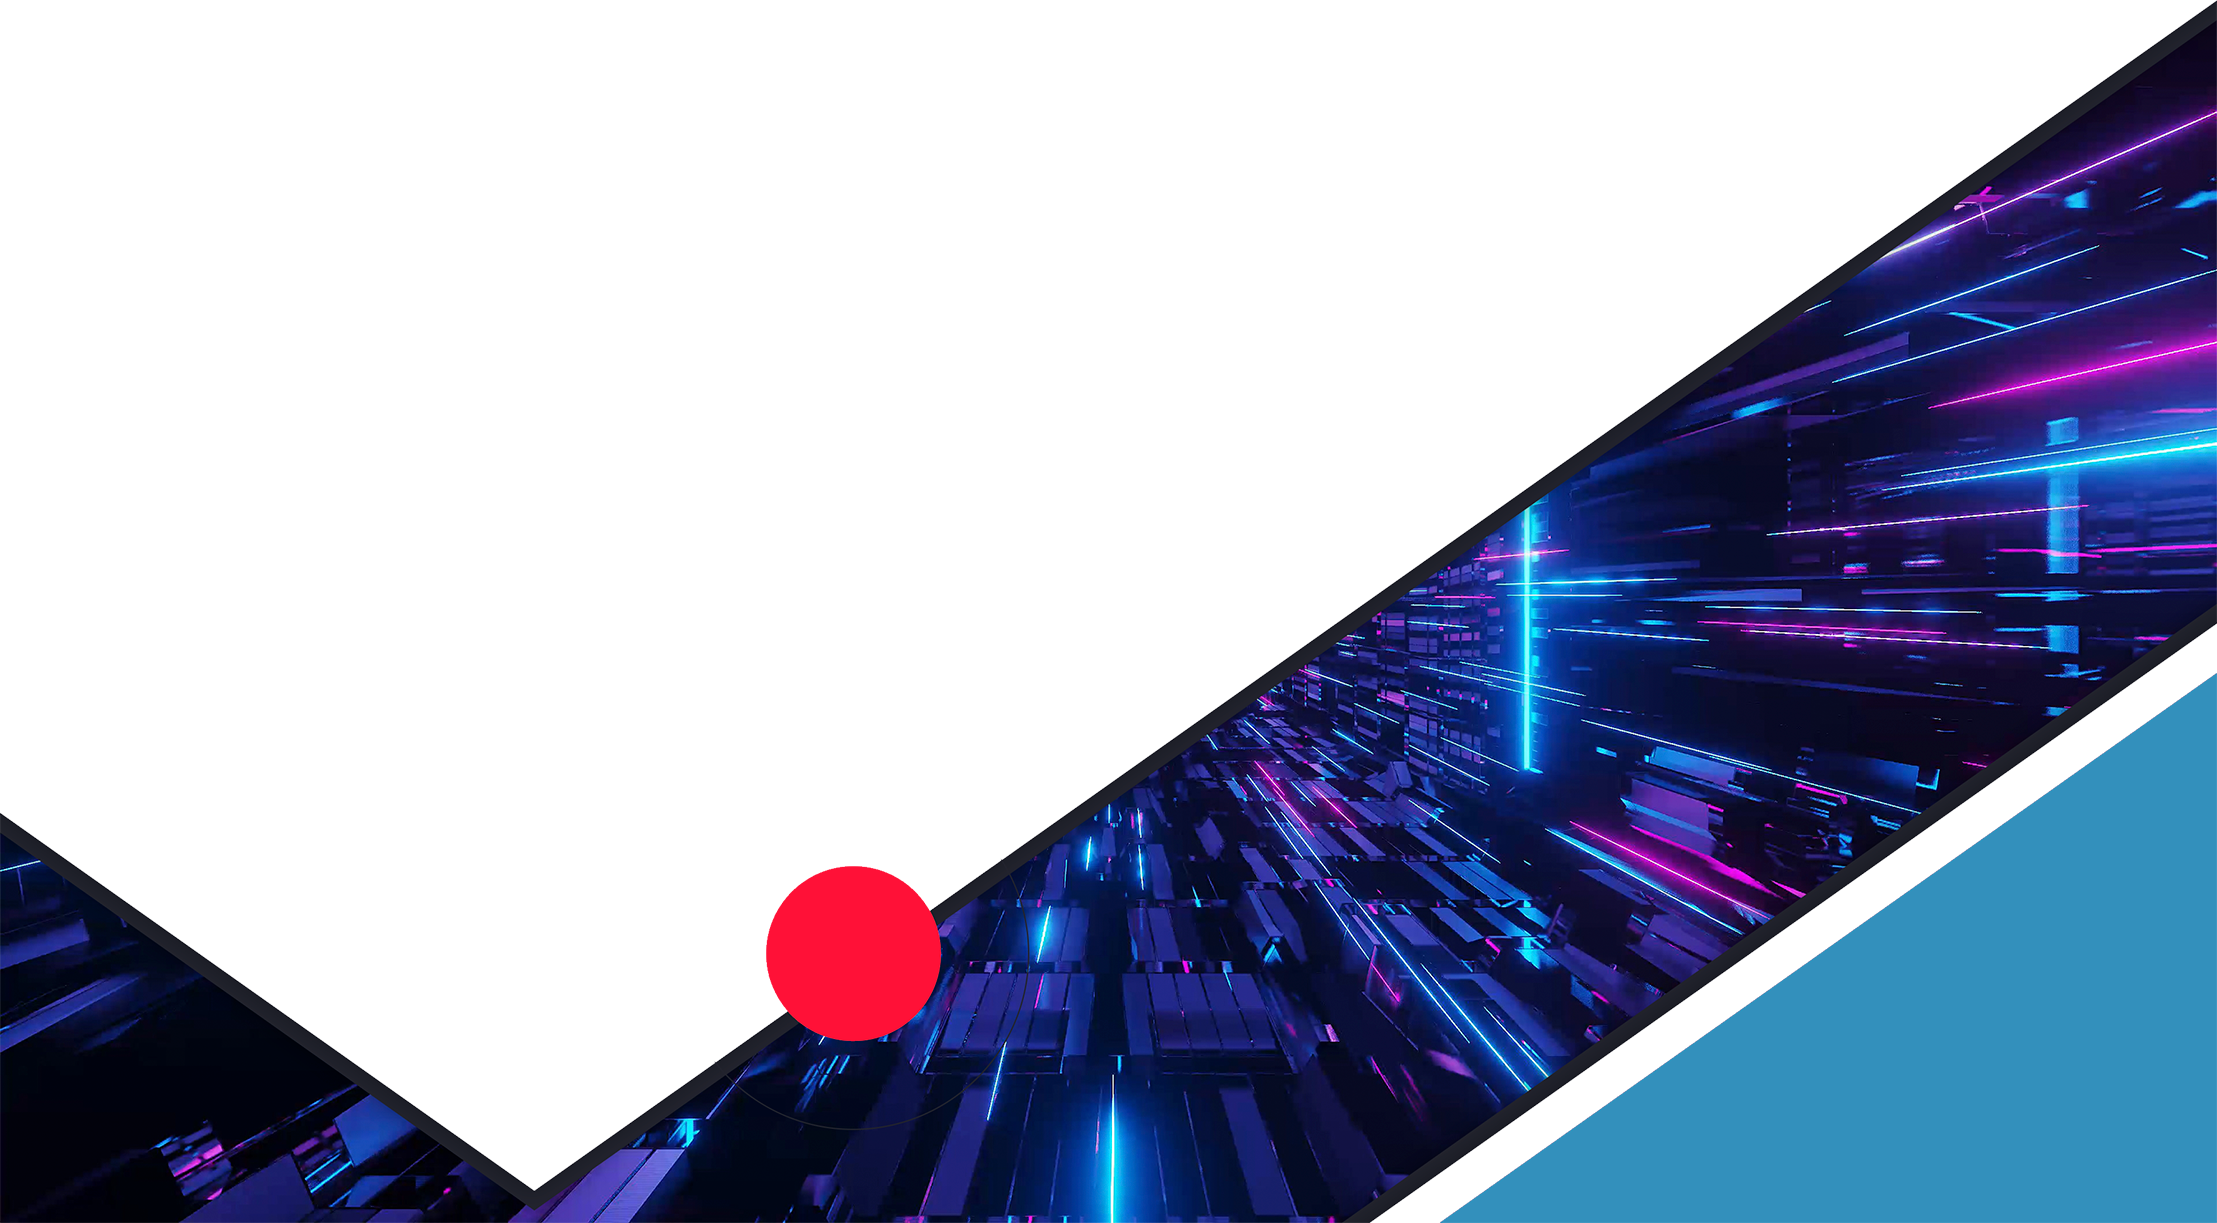
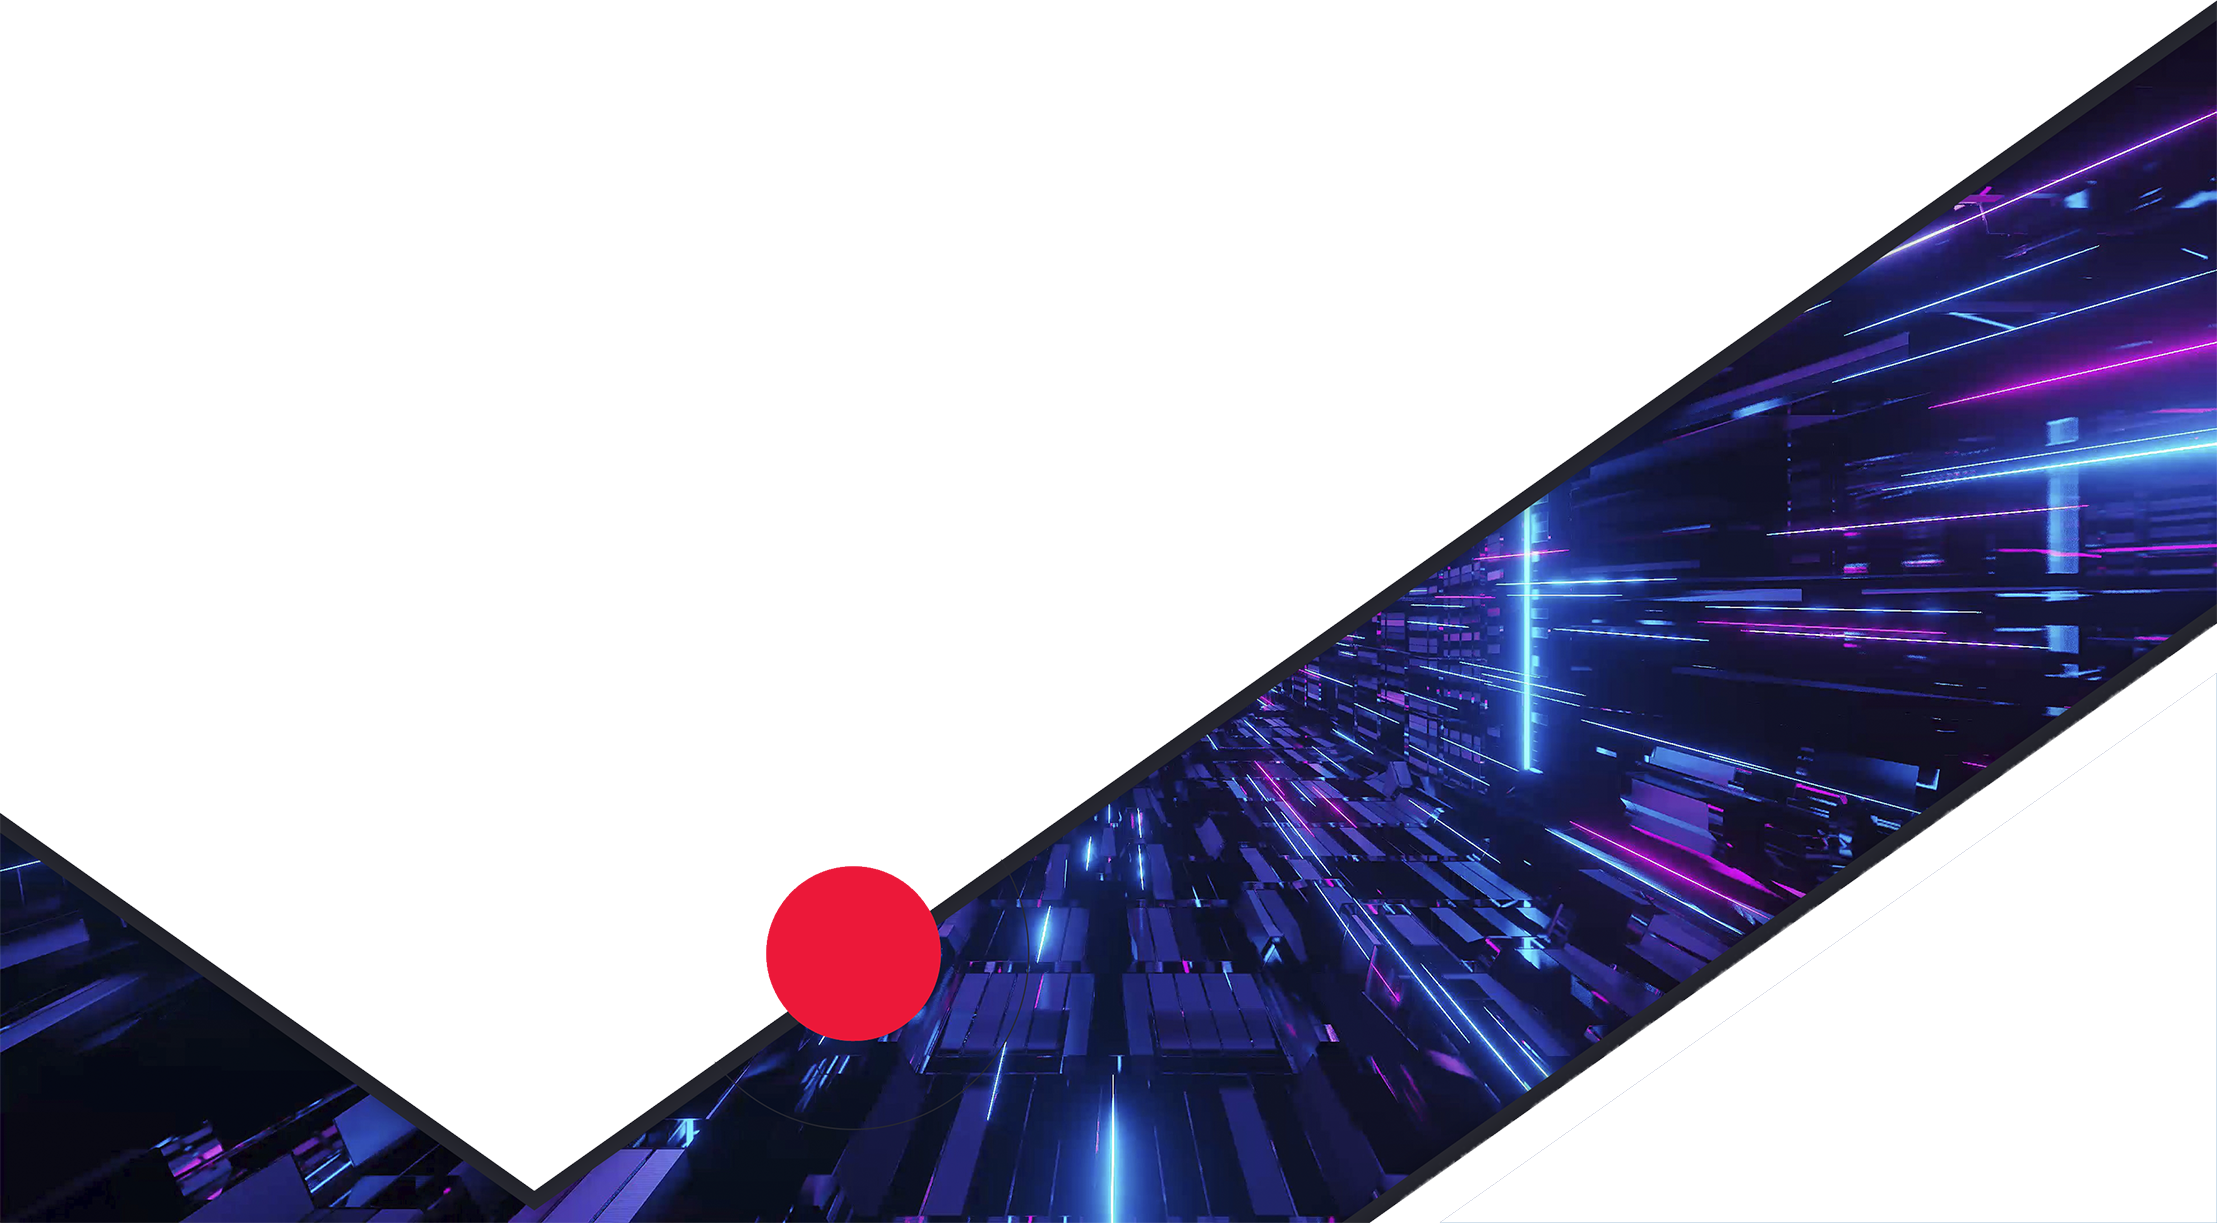
Animation Done

diff --git a/index.html b/index.html
@@ -74,7 +74,7 @@
           I'm a <span class="txt-accent typing"></span>
         </h3>
 
-        <p>
+        <p class="fade">
           I am a self-employed, self-motivated, and self-taught developer who is passionate about full stack web
           development and
           figuring out solutions to improve myself in daily basis.
@@ -99,7 +99,7 @@
           continue to find ways to maximize
           user efficiency.</h3>
         <h1><span class="positioned design-border">Front-end</span></h1>
-        <div class="glider-contain">
+        <div class="glider-contain fade">
           <div class="glider">
             <div><img src="./images/skills/css.png" alt="skills icon"></div>
             <div><img src="./images/skills/js.png" alt="skills icon"></div>
@@ -118,7 +118,7 @@
           <div role="tablist" class="dots"></div>
         </div>
         <h1><span class="positioned design-border">Back-end</span></h1>
-        <div class="glider-contain">
+        <div class="glider-contain fade">
           <div class="glider">
             <div><img src="./images/skills/nodejs 1.png" alt="skills icon"></div>
             <div><img src="./images/skills/express.png" alt="skills icon"></div>
@@ -163,29 +163,29 @@
           <p class="third-header">i'm at your service</p>
         </div>
         <div class="contact-info">
-          <div class="contact-item">
+          <div class="fade contact-item">
             <img src="./images/telephone.png" alt="icon">
             <p>Call me on</p>
             <p>01151786617</p>
           </div>
-          <div class="contact-item">
+          <div class="fade contact-item">
             <img src="./images/location.png" alt="icon">
             <p>Location</p>
             <p>El-Mokatem,Street 9</p>
           </div>
-          <div class="contact-item">
+          <div class="fade contact-item">
             <img src="./images/@.png" alt="icon">
             <p>Email</p>
             <p>mohamedfathi4345@gmail.com</p>
             <p>mohamedfathi9696@gmail.com</p>
           </div>
-          <div class="contact-item">
+          <div class="fade contact-item">
             <img src="./images/earth.png" alt="icon">
             <p>Website</p>
             <p><a href="https://mohamedfathi96.github.io/">github domain</a></p>
           </div>
         </div>
-        <form action="#">
+        <form class="fade" action="#">
           <input class="half-width" placeholder="NAME" type="text">
           <input id="email" class="half-width" placeholder="EMAIL" type="email">
           <input id="subject" placeholder="Subject" type="text">

diff --git a/js/script.js b/js/script.js
@@ -1,3 +1,5 @@
+// ---------------------------- fading animation ----------------------------
+
 const fadingElements = document.querySelectorAll(".fade");
 
 const fadeObserver = new IntersectionObserver(
@@ -54,8 +56,8 @@ window.addEventListener("load", function () {
     });
   });
 });
-// Typing animation
 
+// ---------------------------- Typing animation ----------------------------
 var typed = new Typed(".typing", {
   // Waits 1000ms after typing "First"
   strings: ["Full Stack Developer.", "Free Lancer."],
@@ -73,7 +75,7 @@ navLinks.forEach((linkElem) => {
     activeLink.classList.add("active");
   });
 });
-// ========= Canvas =========
+// ---------------------------- Canvas ----------------------------
 var canvas = /** @type {HTMLCanvasElement} */ (
   document.getElementById("canvas1")
 );
@@ -100,12 +102,12 @@ class Particle {
     this.y = Math.random() * canvas.height + 1;
     this.speedX = Math.random() * 3 - 1;
     this.speedY = Math.random() * 3 - 1;
-    this.size = Math.random() * 80 + 1;
+    this.size = Math.random() * 16 + 1;
   }
   update() {
     if (this.x < 0 || this.x > window.innerWidth)
       this.x = Math.random() * canvas.width + 1;
-    if (this.y < 0 || this.y > window.innerHeight)
+    else if (this.y < 0 || this.y > window.innerHeight)
       this.y = Math.random() * canvas.height + 1;
     this.x += this.speedX;
     this.y += this.speedY;
@@ -119,7 +121,7 @@ class Particle {
 }
 
 function init() {
-  for (let particleIndex = 0; particleIndex < 8; particleIndex++) {
+  for (let particleIndex = 0; particleIndex < 35; particleIndex++) {
     particles.push(new Particle());
   }
 }
@@ -159,4 +161,8 @@ animate();
 //   }).then((message) => alert("Your Email Was Send..."));
 // }
 
-// ------------------------- IntersectionObservers-------------------------
+// ------------------------- Change font color -------------------------
+const rootNode = document.querySelector(":root");
+function changeFontColor() {
+  rootNode.style.setProperty("--text-dark", "#fff");
+}

diff --git a/css/style.css b/css/style.css
@@ -13,12 +13,13 @@
   --text-light: #b6eada;
   --text-dark: #03001c;
   --text-accent-1: #301e67;
-  --text-accent-2: #5b8fb9;
+  --text-accent-2: #301e67;
   --light-red: #ec1839;
 }
 
 #canvas1 {
   position: fixed;
+  /* background-color: #000; */
   top: 0;
   left: 0;
   z-index: 1;
@@ -94,7 +95,7 @@ ul.nav li a.active {
 
 /* =====================Home Start===================== */
 #home {
-  background: transparent url("./../images/background2.png") no-repeat 100% 100%;
+  background: transparent url("./../images/background.png") no-repeat 100% 100%;
   background-size: contain;
   text-transform: capitalize;
   min-height: 100vh;
@@ -233,6 +234,14 @@ section#contact form > button:hover {
   section#contact {
     justify-content: space-around;
   }
+  section#portfolio .projects > * {
+    max-width: 450px;
+  }
+}
+@media (min-width: 1750px) {
+  section#portfolio .projects > * {
+    max-width: 450px;
+  }
 }
 
 @media (min-width: 800px) {
@@ -250,34 +259,5 @@ section#contact form > button:hover {
   }
   .main-container {
     padding-left: 0px;
-  }
-}
-
-@media (max-width: 1158px) {
-  .about .about-content .personal-info {
-    flex: 0 0 100%;
-    max-width: 100%;
-  }
-  .about .about-content .skills {
-    flex: 0 0 100%;
-    max-width: 100%;
-  }
-}
-@media (max-width: 871px) {
-  .about .about-content .personal-info .info-item,
-  .about .about-content .personal-info .info-item2 {
-    flex: 0 0 100%;
-    max-width: 100%;
-    /* background-color: red; */
-  }
-  .about .about-content .personal-info .buttons {
-    text-align: center;
-  }
-}
-
-@media (max-width: 1000px) {
-  .about .about-content .education {
-    flex: 0 0 100%;
-    max-width: 100%;
   }
 }

diff --git a/css/utility.css b/css/utility.css
@@ -2,6 +2,11 @@
 .fade {
   opacity: 0;
 }
+
+.fade-in {
+  animation: fadeIn 500ms ease-in 100ms both;
+}
+
 @keyframes fadeIn {
   0% {
     opacity: 0;
@@ -12,9 +17,7 @@
     scale: 1 1;
   }
 }
-.fade-in {
-  animation: fadeIn 500ms ease-in 100ms both;
-}
+
 .shadow-dark {
   box-shadow: 0 0 20px rgba(48, 46, 77, 0.15);
 }
@@ -48,10 +51,7 @@
 .section-p1 {
   padding: 20px 80px 30px;
 }
-.row {
-  display: flex;
-  flex-wrap: wrap;
-}
+
 .main-header {
   font-size: clamp(1.3rem, 3vw + 1rem, 4rem);
   line-height: 1.5;
